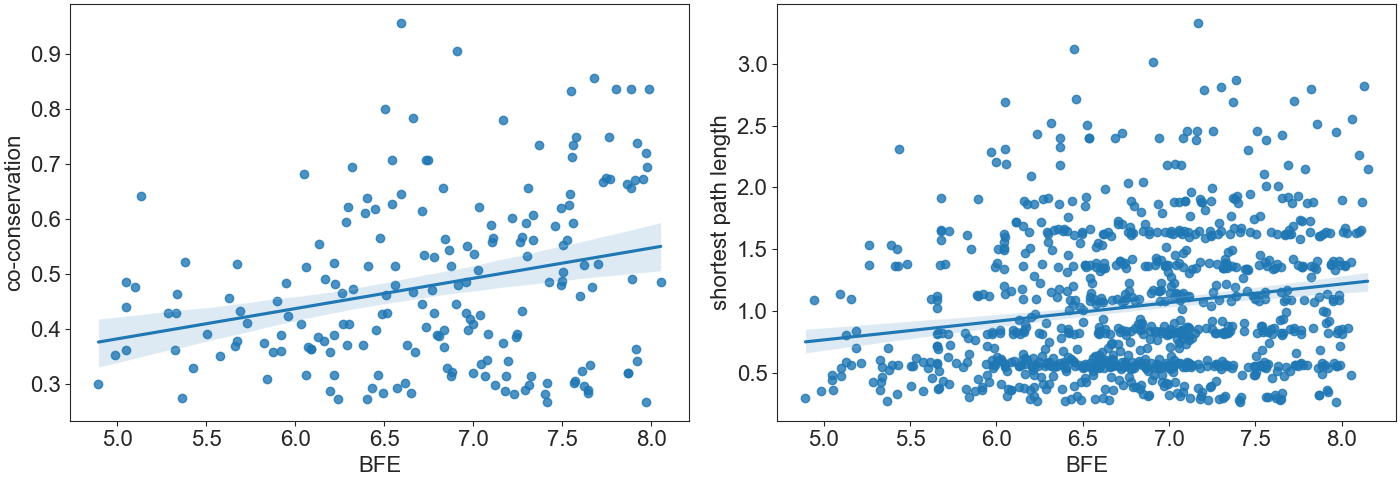
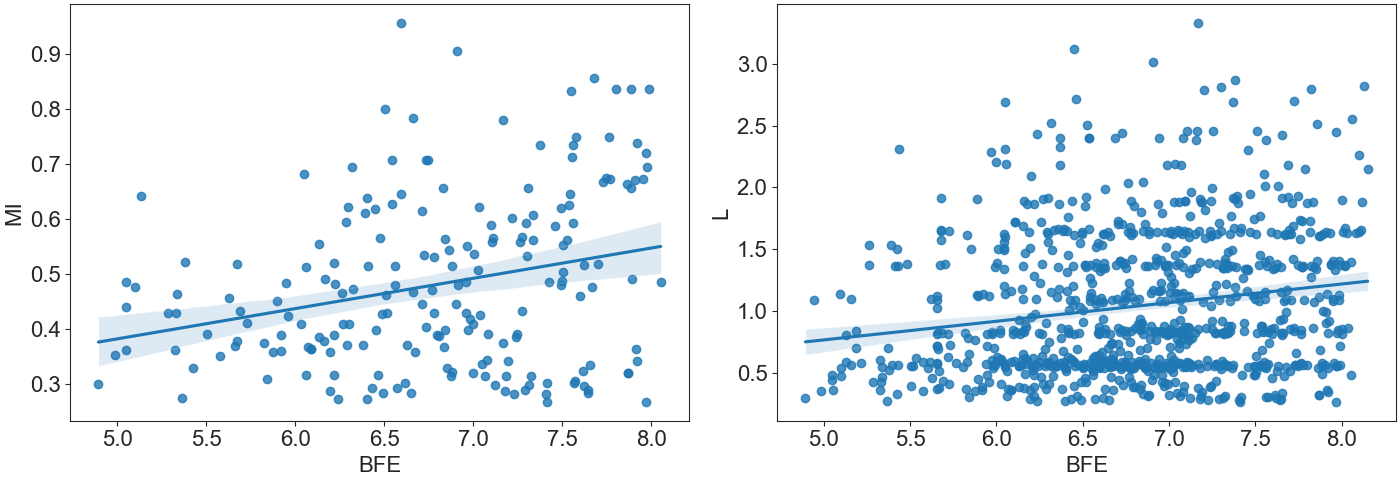
Update y label of correlation plot;

diff --git a/v2/combine_with_other_tools.py b/v2/combine_with_other_tools.py
@@ -493,6 +493,12 @@ class CombineResult:
                 {"type": "single", "name": "page rank"},
             ]
         }
+        abbr_map = {
+            "co-conservation": "MI",
+            "shortest path length": "L",
+            "degree": "K",
+            "page rank": "P"
+        }
 
         for name, targets in plot_data.items():
             fig: plt.Figure
@@ -501,6 +507,8 @@ class CombineResult:
             for idx, target in enumerate(targets):
                 source = co_info if target["type"] == "co" else single_info
                 sns.regplot(data=source, x=name, y=target["name"], ax=axes[idx])
+                axes[idx].set_ylabel(abbr_map[target["name"]])
+
 
             fig.savefig(os.path.join(data_dir, f"correlation_{name}.png"))
 
